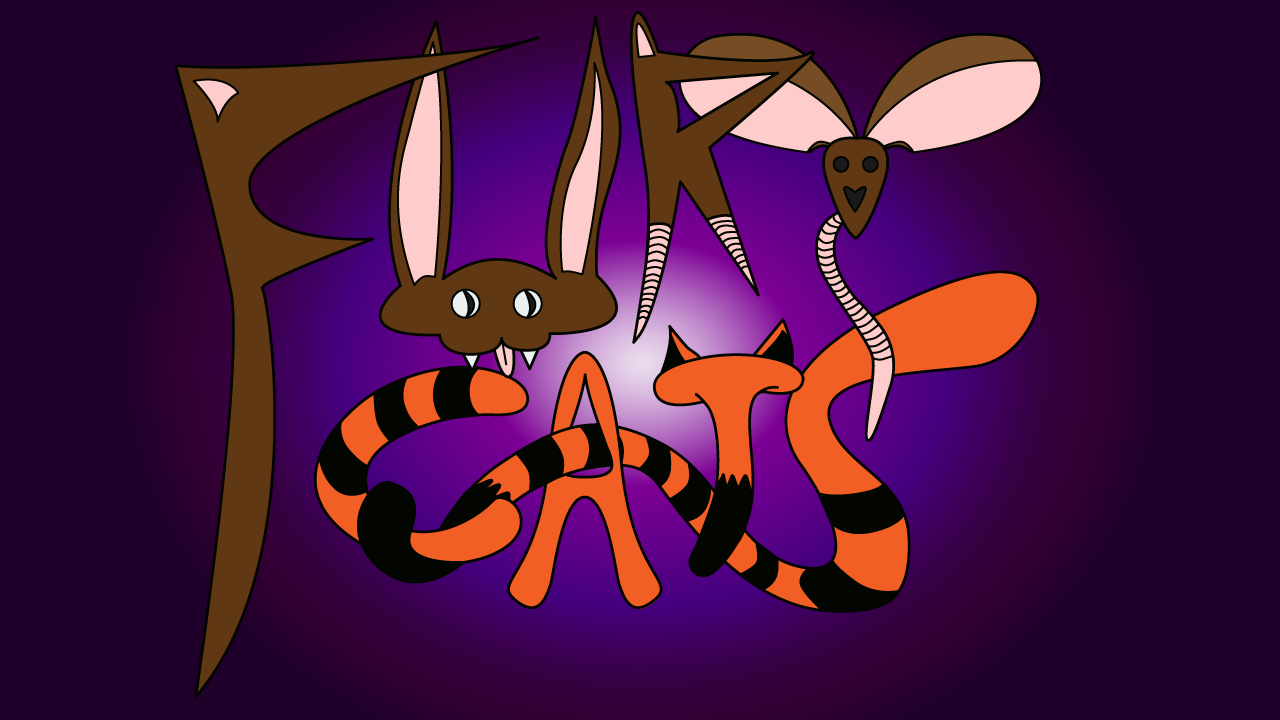
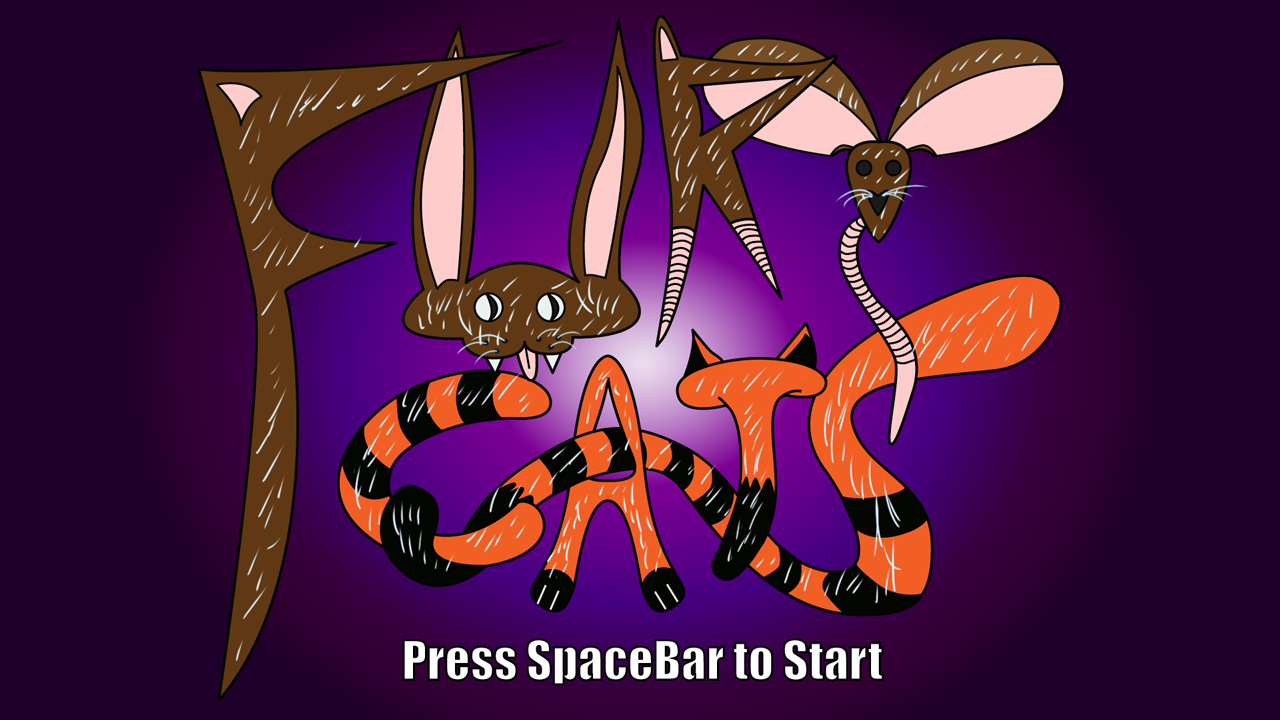
Assets
+Se agregaron los assets de podadora y la portada

Changed region(s): [[0.125, 0.0, 0.8438, 0.9778], [0.3125, 0.8861, 0.6875, 0.9472]]

diff --git a/RotografosEngine-RotoBoy/TestBed/LevelZero.cpp b/RotografosEngine-RotoBoy/TestBed/LevelZero.cpp
@@ -23,9 +23,14 @@ LevelZero::LevelZero()
 	}
 	for (int i = 0; i < NUM_PODS; i++)
 	{
-		podadora[i] = new GameObject("FuryCats/Podadora.png");
+		podadora[i] = new GameObject("FuryCats/Podadora2.png");
 		podmovementX[i] = podspeedx; 
 	}
+	//for (int i = 0; i < NUM_ARRAS; i++)
+	//{
+	//	arrastahojas[i] = new GameObject("FuryCats/Podadora.png"); 
+	//	//arrastramovY[i] = arrastraspeedy; 
+	//}
 	prequelScene = new GameObject("FuryCats/HD_FuryCats_CoverPurple.png"); 
 
 }
@@ -75,6 +80,21 @@ void LevelZero::Start()
 		}
 		//podadora[i]->SetPos(650, App::GetHeight() - 600);
 	}
+	//------------------------------------------
+	//for (int i = 0; i < NUM_ARRAS; i++)
+	//{
+	//	arrastahojas[i]->CreateCollider(Square); 
+	//	switch (i) {
+	//	case 0:
+	//		//podadora en la parte de arriba
+	//		arrastahojas[i]->SetPos(0, App::GetHeight() - 100);
+	//		break;
+	//	case 1:
+	//		//podadora en la parte de abajo
+	//		arrastahojas[i]->SetPos(0, App::GetHeight() - 200);
+	//		break;
+	//	}
+	//}
 	
 
 	inGame = true; 
@@ -117,13 +137,18 @@ void LevelZero::Update(float deltaTime) //set pos //moviemnto del personaje desd
 			i = i - 1; 
 		}
 	}
-
+	//-------------------------------------------
 	for (int i = 0; i < NUM_RATS_Y; i++) {
 		
 		if (podadora[i] != nullptr)
 			podadora[i]->Update();
 	}
 	
+	/*for (int i = 0; i < NUM_ARRAS; i++) {
+		if (arrastahojas[i] != nullptr)
+			arrastahojas[i]->Update(); 
+	}*/
+
 	//podadora en X y parte de su collision
 	if (catalive)
 	{
@@ -220,7 +245,7 @@ void LevelZero::Player_Collide() //collision del jugador
 			if (catalive == false && life >= 0)
 			{
 				 
-				cat->SetPos(0, App::GetHeight() - 300);
+				cat->SetPos(0, App::GetHeight() - 100);
 				catalive = true;
 				std::cout << "Revivido" << std::endl;
 
@@ -228,6 +253,27 @@ void LevelZero::Player_Collide() //collision del jugador
 
 		}
 	}
+	/*for (int i = 0; i < NUM_ARRAS; i++)
+	{
+		if (catalive && arrastahojas[i]->GetCollider()->IsCollinding(cat->GetCollider()))
+		{
+			catalive = false;
+			score -= 5;
+			std::cout << "Se restaron 3 puntos" << std::endl;
+			std::cout << score << std::endl;
+
+			life -= 1;
+			std::cout << "Se muere" << std::endl;
+			if (catalive == false && life >= 0)
+			{
+
+				cat->SetPos(0, App::GetHeight() - 300);
+				catalive = true;
+				std::cout << "Revivido" << std::endl;
+
+			}
+		}
+	}*/
 
 }
 
@@ -378,6 +424,16 @@ void LevelZero::move_ObstacleX() //mov del obstaculo
 			podadora[i]->SetY(0);
 		podadora[i]->MoveX(podmovementX[i]);
 	}
+
+	//for (int i = 0; i < NUM_ARRAS; i++)
+	//{
+	//	/*if (arrastahojas[i]->GetPos()->y + arrastahojas[i]->GetPos()->h >= App::GetHeight())
+	//		arrastahojas[i]->SetY(App::GetHeight() - arrastahojas[i]->GetPos()->h - 10);
+	//	if (arrastahojas[i]->GetPos()->y + arrastahojas[i]->GetPos()->w >= App::GetWidth())
+	//		arrastahojas[i]->SetX(App::GetWidth() - arrastahojas[i]->GetPos()->w);
+	//	if (arrastahojas[i]->GetPos()->y <= 0)
+	//		arrastahojas[i]->SetY(0);*/
+	//}
 	
 }
 
@@ -459,7 +515,8 @@ void LevelZero::OnEnd()
 	delete cat;
 	for (int i = 0; i < NUM_PODS; ++i)
 		delete podadora[i]; 
-	delete arrastahojas; 
+	for (int i = 0; i < NUM_ARRAS; ++i)
+		delete arrastahojas[i]; 
 	delete prequelScene;
 }
 

diff --git a/RotografosEngine-RotoBoy/TestBed/LevelZero.h b/RotografosEngine-RotoBoy/TestBed/LevelZero.h
@@ -29,7 +29,8 @@ public:
 	{
 		NUM_RATS_X = 6,
 		NUM_RATS_Y = 4,
-		NUM_PODS = 2
+		NUM_PODS = 2,
+		NUM_ARRAS = 1
 	}; 
 	
 
@@ -51,7 +52,7 @@ public:
 	GameObject* cat; 
 	GameObject* podadora[NUM_PODS];
 	GameObject* podadoraY;
-	GameObject* arrastahojas; 
+	GameObject* arrastahojas[NUM_ARRAS]; 
 	GameObject* prequelScene; 
 	bool prequeleScene = false; 
 	bool sceneStarting = true;
@@ -77,6 +78,9 @@ public:
 
 	int podspeedx = 5; 
 	int podmovementX[NUM_PODS];
+
+	/*int arrastraspeedy = 5; 
+	int arrastramovY[NUM_ARRAS]; */
 
 	bool rataliveX[NUM_RATS_X];  
 	bool rataliveY[NUM_RATS_Y]; 
